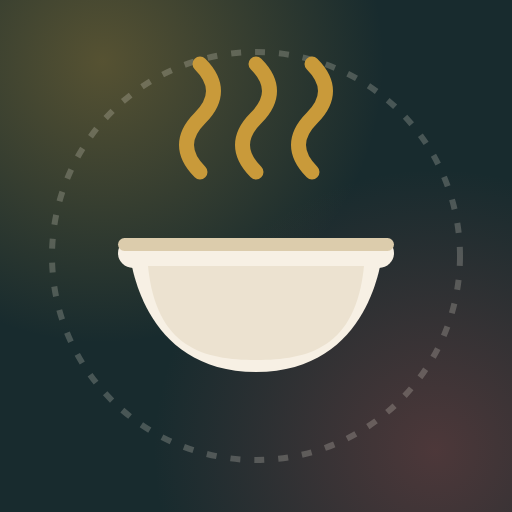
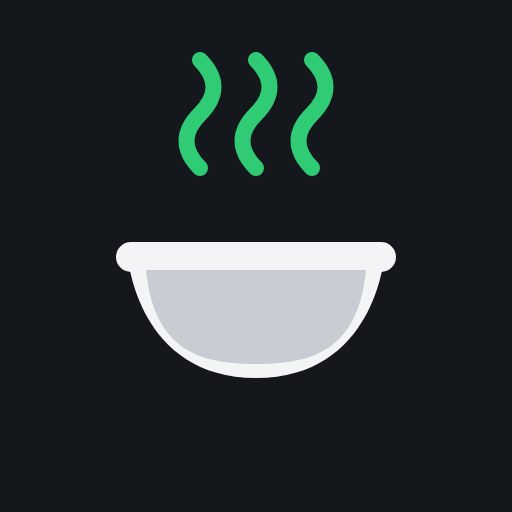
Corriger la DA : reprendre la vraie identité Loverbox (façon Letterboxd)
L'itération précédente s'appuyait sur une ancienne maquette jamais
déployée. La vraie appli Loverbox a un tout autre style : fond quasi
noir, cartes ardoise, accents vert/orange/ambre saturés, typo sans-serif
bold — inspiré de Letterboxd. Palette, composants et icône refaits en
conséquence ; structure HTML/JS inchangée.

Claude-Session: https://claude.ai/code/session_019a1X9DT9bbkZgdqgmPoAiV

diff --git a/index.html b/index.html
@@ -1,7 +1,7 @@
-<!doctype html><html lang="fr"><head><meta charset=utf8><meta name=viewport content="width=device-width,initial-scale=1,viewport-fit=cover"><style>:root{color-scheme:dark;box-sizing:border-box;padding-top:env(safe-area-inset-top,0px);padding-bottom:env(safe-area-inset-bottom,0px)}html{scroll-padding-top:env(safe-area-inset-top,0px)}body{margin:0;padding:0;font:14px -apple-system,BlinkMacSystemFont,sans-serif;background:#182b2e;color:#f7f0e4}img{max-width:100%}[hidden]:not([hidden=until-found i]){display:none!important}</style>
+<!doctype html><html lang="fr"><head><meta charset=utf8><meta name=viewport content="width=device-width,initial-scale=1,viewport-fit=cover"><style>:root{color-scheme:dark;box-sizing:border-box;padding-top:env(safe-area-inset-top,0px);padding-bottom:env(safe-area-inset-bottom,0px)}html{scroll-padding-top:env(safe-area-inset-top,0px)}body{margin:0;padding:0;font:14px -apple-system,BlinkMacSystemFont,sans-serif;background:#14171b;color:#f3f4f6}img{max-width:100%}[hidden]:not([hidden=until-found i]){display:none!important}</style>
 <title>Cookbox</title>
 <meta name="description" content="Batch cooking : rotation de 10 recettes, courses, préparation minutée et repas de la semaine.">
-<meta name="theme-color" content="#182b2e">
+<meta name="theme-color" content="#14171b">
 <link rel="manifest" href="manifest.json">
 <link rel="icon" href="icons/icon-192.png" type="image/png">
 <link rel="apple-touch-icon" href="icons/apple-touch-icon.png">
@@ -11,122 +11,111 @@
 </head><body>
 <link rel="preconnect" href="https://fonts.googleapis.com">
 <link rel="preconnect" href="https://fonts.gstatic.com" crossorigin>
-<link rel="stylesheet" href="https://fonts.googleapis.com/css2?family=Fraunces:ital,wght@1,500;1,600&family=Inter:wght@400;500;600&family=IBM+Plex+Mono:wght@400;500;600&display=swap">
+<link rel="stylesheet" href="https://fonts.googleapis.com/css2?family=Inter:wght@400;500;600;700;800&display=swap">
 <style>
   :root{
-    /* Loverbox DA : nuit / papier / moutarde / brique / sauge */
-    --nuit:#182b2e;
-    --nuit-light:#223a3e;
-    --papier:#f7f0e4;
-    --papier-dark:#ece2d0;
-    --moutarde:#c99a3a;
-    --brique:#9c4b4b;
-    --sauge:#4f6b63;
+    /* Loverbox DA (vraie appli, façon Letterboxd) : fond quasi noir, cartes ardoise, accents saturés */
+    --bg:#14171b;
+    --surface:#1b1f27;
+    --surface-2:#212632;
+    --line:rgba(255,255,255,0.09);
+    --ink:#f3f4f6;
+    --muted:#8a92a3;
+    --muted-2:#666e7d;
 
-    --bg:var(--nuit);
-    --surface:var(--papier);
-    --surface-2:var(--papier-dark);
-    --ink:var(--nuit);
-    --muted:rgba(24,43,46,0.6);
-    --line:rgba(24,43,46,0.14);
+    --green:#30cb75; --green-ink:#0b1f12;
+    --orange:#f0923a; --orange-ink:#2b1503;
+    --amber:#eab54e; --amber-ink:#2b2005;
 
-    --on-dark:var(--papier);
-    --on-dark-muted:rgba(247,240,228,0.55);
-    --on-dark-line:rgba(247,240,228,0.18);
+    --chili:var(--orange); --chili-ink:var(--orange-ink);
+    --turmeric:var(--amber); --turmeric-ink:var(--amber-ink);
+    --jade:var(--green); --jade-ink:var(--green-ink);
 
-    --chili:var(--brique); --chili-ink:var(--papier);
-    --turmeric:var(--moutarde); --turmeric-ink:var(--nuit); --turmeric-text:#8a6220;
-    --jade:var(--sauge); --jade-ink:var(--papier);
-
-    --shadow: 0 12px 30px -14px rgba(0,0,0,0.5);
+    --shadow: 0 8px 20px -10px rgba(0,0,0,0.55);
     scroll-behavior:smooth;
   }
 
   *{ box-sizing:border-box; }
   body{
-    background:var(--bg); color:var(--on-dark); font-family:'Inter','Helvetica Neue',Arial,sans-serif; font-variant-numeric: tabular-nums;
-    background-image:
-      radial-gradient(circle at 18% 8%, rgba(201,154,58,0.08), transparent 42%),
-      radial-gradient(circle at 88% 82%, rgba(156,75,75,0.10), transparent 46%);
-    background-attachment:fixed;
+    background:var(--bg); color:var(--ink); font-family:'Inter',-apple-system,BlinkMacSystemFont,'Segoe UI',Roboto,sans-serif; font-variant-numeric: tabular-nums;
     -webkit-font-smoothing:antialiased;
   }
-  h1,h2,h3,.display{ font-family:'Fraunces',serif; font-style:italic; text-wrap:balance; letter-spacing:-0.005em; }
+  h1,h2,h3,.display{ font-weight:800; text-wrap:balance; letter-spacing:-0.01em; }
 
   .shell{ max-width:640px; margin:0 auto; padding-inline:18px; padding-block: 18px 64px; }
 
   header.top{
     position:sticky; top: env(safe-area-inset-top, 0px); z-index:10;
     background:var(--bg); padding-block: 14px 10px; margin-inline: -18px; padding-inline: 18px;
-    border-bottom:1px dashed var(--on-dark-line);
+    border-bottom:1px solid var(--line);
   }
   .title-row{ display:flex; align-items:baseline; justify-content:space-between; gap:12px; margin-bottom:12px; }
-  .title-row h1{ font-size:1.6rem; font-weight:600; margin:0; color:var(--on-dark); }
-  .title-row .kicker{ display:block; font-family:'IBM Plex Mono',monospace; font-weight:500; font-size:0.66rem; letter-spacing:0.09em; text-transform:uppercase; color:var(--moutarde); margin-bottom:3px; }
-  .reset-btn{ border:1px solid var(--on-dark-line); background:rgba(247,240,228,0.05); color:var(--on-dark-muted); font-size:0.7rem; font-weight:500; padding:6px 10px; border-radius:7px; cursor:pointer; white-space:nowrap; font-family:'IBM Plex Mono',monospace; text-transform:uppercase; letter-spacing:0.04em; }
-  .reset-btn:hover{ color:var(--on-dark); border-color:var(--on-dark-muted); }
-  .reset-confirm{ display:flex; align-items:center; gap:8px; font-size:0.72rem; color:var(--on-dark-muted); font-family:'IBM Plex Mono',monospace; }
-  .reset-confirm button{ border:1px solid var(--on-dark-line); background:rgba(247,240,228,0.05); color:var(--on-dark-muted); font-size:0.68rem; padding:5px 9px; border-radius:6px; cursor:pointer; font-family:'IBM Plex Mono',monospace; text-transform:uppercase; }
-  .reset-confirm button.danger{ background:var(--brique); border-color:var(--brique); color:var(--papier); }
+  .title-row h1{ font-size:1.7rem; font-weight:800; margin:0; color:var(--ink); }
+  .title-row .kicker{ display:block; font-weight:600; font-size:0.72rem; color:var(--green); margin-bottom:3px; }
+  .reset-btn{ border:1px solid var(--line); background:var(--surface); color:var(--muted); font-size:0.72rem; font-weight:600; padding:6px 11px; border-radius:8px; cursor:pointer; white-space:nowrap; font-family:inherit; }
+  .reset-btn:hover{ color:var(--ink); border-color:var(--muted); }
+  .reset-confirm{ display:flex; align-items:center; gap:8px; font-size:0.72rem; color:var(--muted); }
+  .reset-confirm button{ border:1px solid var(--line); background:var(--surface); color:var(--ink); font-size:0.72rem; padding:5px 10px; border-radius:7px; cursor:pointer; font-family:inherit; font-weight:600; }
+  .reset-confirm button.danger{ background:var(--orange); border-color:var(--orange); color:var(--orange-ink); }
 
   .tabs{ display:flex; gap:1px; }
   .tab-btn{
-    flex:1; appearance:none; border:none; background:transparent; color:var(--on-dark-muted);
-    font-family:'IBM Plex Mono',monospace; font-weight:500; font-size:0.66rem; letter-spacing:0.03em;
+    flex:1; appearance:none; border:none; background:transparent; color:var(--muted);
+    font-family:inherit; font-weight:600; font-size:0.72rem;
     padding:9px 1px 10px; border-bottom:3px solid transparent; cursor:pointer; text-align:center;
   }
-  .tab-btn[aria-selected="true"]{ color:var(--on-dark); border-bottom-color:var(--moutarde); }
-  .tab-btn:focus-visible{ outline:2px solid var(--moutarde); outline-offset:2px; }
+  .tab-btn[aria-selected="true"]{ color:var(--ink); border-bottom-color:var(--green); }
+  .tab-btn:focus-visible{ outline:2px solid var(--green); outline-offset:2px; }
 
   .panel{ padding-top:18px; }
 
-  .lineup{ background:var(--surface); border:1px solid var(--line); border-radius:10px; padding:14px 15px 15px; margin-bottom:18px; box-shadow:var(--shadow); }
-  .lineup h3{ font-size:0.85rem; margin:0 0 2px; font-family:'Inter',sans-serif; font-style:normal; font-weight:600; color:var(--ink); }
+  .lineup{ background:var(--surface); border:1px solid var(--line); border-radius:14px; padding:14px 15px 15px; margin-bottom:18px; box-shadow:var(--shadow); }
+  .lineup h3{ font-size:0.9rem; margin:0 0 2px; font-weight:700; color:var(--ink); }
   .lineup .sub{ font-size:0.72rem; color:var(--muted); display:block; margin-bottom:11px; }
   .lineup-pills{ display:flex; flex-wrap:wrap; gap:6px; margin-bottom:12px; }
-  .lineup-pill{ font-family:'IBM Plex Mono',monospace; font-size:0.7rem; font-weight:500; background:var(--surface-2); border:1px dashed rgba(24,43,46,0.25); padding:5px 10px; border-radius:99px; color:var(--ink); }
+  .lineup-pill{ font-size:0.74rem; font-weight:600; background:var(--surface-2); border:1px solid var(--line); padding:5px 10px; border-radius:99px; color:var(--ink); }
   .reroll-btn{
-    border:none; background:var(--moutarde); color:var(--nuit); font-size:0.76rem; font-weight:600;
-    padding:8px 14px; border-radius:8px; cursor:pointer; font-family:'Inter',sans-serif; transition:transform .15s ease;
+    border:none; background:var(--green); color:var(--green-ink); font-size:0.78rem; font-weight:700;
+    padding:9px 15px; border-radius:10px; cursor:pointer; font-family:inherit; transition:transform .15s ease;
   }
   .reroll-btn:hover{ transform:scale(1.03); }
 
   .week-header{ display:flex; align-items:flex-start; justify-content:space-between; gap:10px; margin-bottom:6px; }
-  .week-header h2{ font-size:1.25rem; font-weight:600; margin:0 0 2px; color:var(--on-dark); }
-  .week-header .theme{ font-size:0.78rem; color:var(--moutarde); font-weight:500; font-family:'IBM Plex Mono',monospace; }
+  .week-header h2{ font-size:1.2rem; font-weight:800; margin:0 0 2px; color:var(--ink); }
+  .week-header .theme{ font-size:0.8rem; color:var(--green); font-weight:600; }
   .swap-btn{
-    flex:none; border:1px solid var(--on-dark-line); background:rgba(247,240,228,0.05); color:var(--on-dark-muted); font-size:0.66rem; font-weight:500;
-    padding:5px 10px; border-radius:7px; cursor:pointer; white-space:nowrap; font-family:'IBM Plex Mono',monospace; text-transform:uppercase; margin-top:2px;
+    flex:none; border:1px solid var(--line); background:var(--surface); color:var(--muted); font-size:0.7rem; font-weight:600;
+    padding:5px 11px; border-radius:8px; cursor:pointer; white-space:nowrap; font-family:inherit; margin-top:2px;
   }
-  .swap-btn:hover{ color:var(--on-dark); border-color:var(--on-dark-muted); }
+  .swap-btn:hover{ color:var(--ink); border-color:var(--muted); }
 
   .quicknav{ display:flex; gap:6px; flex-wrap:wrap; margin:12px 0 20px; }
-  .quicknav a{ font-family:'IBM Plex Mono',monospace; font-size:0.68rem; font-weight:500; color:var(--on-dark-muted); background:rgba(247,240,228,0.06); border:1px dashed var(--on-dark-line); padding:4px 10px; border-radius:99px; text-decoration:none; text-transform:uppercase; }
-  .quicknav a:hover{ color:var(--moutarde); border-color:var(--moutarde); }
+  .quicknav a{ font-size:0.72rem; font-weight:600; color:var(--muted); background:var(--surface); border:1px solid var(--line); padding:4px 11px; border-radius:99px; text-decoration:none; }
+  .quicknav a:hover{ color:var(--green); border-color:var(--green); }
   .week-section{ scroll-margin-top: 100px; margin-bottom: 26px; }
   .week-section:last-child{ margin-bottom:0; }
 
   .progress{ display:flex; align-items:center; gap:10px; margin-bottom:12px; }
-  .progress-track{ flex:1; height:6px; border-radius:99px; background:rgba(247,240,228,0.15); overflow:hidden; }
+  .progress-track{ flex:1; height:6px; border-radius:99px; background:var(--surface-2); overflow:hidden; }
   .progress-fill{ height:100%; border-radius:99px; width:0%; transition:width .25s ease; }
   .fill-chili{ background:var(--chili); }
   .fill-turmeric{ background:var(--turmeric); }
-  .progress-label{ font-family:'IBM Plex Mono',monospace; font-size:0.7rem; color:var(--on-dark-muted); font-weight:500; white-space:nowrap; }
+  .progress-label{ font-size:0.72rem; color:var(--muted); font-weight:600; white-space:nowrap; }
 
-  .section-title{ font-family:'IBM Plex Mono',monospace; font-size:0.7rem; font-weight:500; letter-spacing:0.08em; text-transform:uppercase; color:var(--on-dark-muted); margin: 0 0 8px; }
+  .section-title{ font-size:0.74rem; font-weight:700; letter-spacing:0.04em; text-transform:uppercase; color:var(--muted-2); margin: 0 0 8px; }
   .stock-cat{ margin: 20px 0 8px; }
   .stock-cat:first-child{ margin-top:0; }
 
-  .list{ display:flex; flex-direction:column; background:var(--surface); border:1px solid var(--line); border-radius:10px; overflow:hidden; box-shadow:var(--shadow); }
+  .list{ display:flex; flex-direction:column; background:var(--surface); border:1px solid var(--line); border-radius:14px; overflow:hidden; box-shadow:var(--shadow); }
   .item{ display:flex; align-items:center; gap:11px; padding:11px 13px; border-bottom:1px solid var(--line); cursor:pointer; -webkit-tap-highlight-color:transparent; }
   .item:last-child{ border-bottom:none; }
   .item input{ position:absolute; opacity:0; width:1px;height:1px; }
-  .box{ flex:none; width:19px;height:19px; border-radius:5px; border:2px solid rgba(24,43,46,0.25); background:transparent; display:flex; align-items:center; justify-content:center; color:var(--chili-ink); }
+  .box{ flex:none; width:19px;height:19px; border-radius:99px; border:2px solid var(--muted-2); background:transparent; display:flex; align-items:center; justify-content:center; color:var(--chili-ink); }
   .box svg{ width:12px;height:12px; opacity:0; transform:scale(.6); transition:opacity .12s, transform .12s; }
   .item input:checked + .box{ background:var(--chili); border-color:var(--chili); color:var(--chili-ink); }
   .item input:checked + .box svg{ opacity:1; transform:scale(1); }
   .list.prep-check .item input:checked + .box{ background:var(--turmeric); border-color:var(--turmeric); color:var(--turmeric-ink); }
-  .item input:focus-visible + .box{ outline:2px solid var(--moutarde); outline-offset:2px; }
+  .item input:focus-visible + .box{ outline:2px solid var(--green); outline-offset:2px; }
   .item .text{ font-size:0.9rem; line-height:1.35; color:var(--ink); }
   .item input:checked ~ .text{ color:var(--muted); text-decoration:line-through; text-decoration-thickness:1px; }
   .item .note{ display:block; font-size:0.76rem; color:var(--muted); margin-top:1px; }
@@ -134,54 +123,54 @@
   .step{ padding:13px 13px 14px; border-bottom:1px solid var(--line); }
   .step:last-child{ border-bottom:none; }
   .step-head{ display:flex; align-items:flex-start; gap:11px; }
-  .step-num{ flex:none; width:22px;height:22px; border-radius:99px; background:transparent; border:1.5px dashed rgba(24,43,46,0.35); display:flex;align-items:center;justify-content:center; font-family:'IBM Plex Mono',monospace; font-size:0.66rem; font-weight:500; color:var(--muted); margin-top:1px; }
+  .step-num{ flex:none; width:24px;height:24px; border-radius:7px; background:var(--surface-2); border:1px solid var(--line); display:flex;align-items:center;justify-content:center; font-size:0.7rem; font-weight:700; color:var(--muted); margin-top:1px; }
   .step-body{ flex:1; min-width:0; }
-  .step-tag{ display:inline-block; font-family:'IBM Plex Mono',monospace; font-size:0.63rem; font-weight:500; letter-spacing:0.06em; text-transform:uppercase; color:var(--turmeric-text); margin-bottom:3px; }
+  .step-tag{ display:inline-block; font-size:0.66rem; font-weight:700; letter-spacing:0.04em; text-transform:uppercase; color:var(--amber); margin-bottom:3px; }
   .step-text{ font-size:0.9rem; line-height:1.4; color:var(--ink); }
   .step.done .step-text{ color:var(--muted); }
-  .step.done .step-num{ background:var(--turmeric); border:1.5px solid var(--turmeric); color:var(--turmeric-ink); }
+  .step.done .step-num{ background:var(--turmeric); border-color:var(--turmeric); color:var(--turmeric-ink); }
 
   .timer{ display:flex; align-items:center; gap:8px; margin-top:9px; }
-  .timer-display{ font-family:'IBM Plex Mono',monospace; font-weight:600; font-size:0.82rem; min-width:3.6em; color:var(--ink); }
-  .timer.done .timer-display{ color:var(--brique); }
-  .timer-btn{ border:1px solid rgba(24,43,46,0.2); background:var(--surface-2); color:var(--ink); font-size:0.72rem; font-weight:600; padding:5px 11px; border-radius:7px; cursor:pointer; font-family:'IBM Plex Mono',monospace; }
+  .timer-display{ font-weight:700; font-size:0.82rem; min-width:3.6em; color:var(--ink); }
+  .timer.done .timer-display{ color:var(--orange); }
+  .timer-btn{ border:1px solid var(--line); background:var(--surface-2); color:var(--ink); font-size:0.72rem; font-weight:700; padding:5px 12px; border-radius:8px; cursor:pointer; font-family:inherit; }
   .timer-btn.ghost{ background:transparent; color:var(--muted); font-weight:500; padding:5px 8px; }
   .timer.running .timer-btn[data-action="toggle"]{ background:var(--turmeric); border-color:var(--turmeric); color:var(--turmeric-ink); }
 
   .step-check{ flex:none; align-self:flex-start; }
 
   .cards{ display:flex; flex-direction:column; gap:12px; }
-  .card{ background:var(--surface); border:1px solid var(--line); border-left:4px solid var(--sauge); border-radius:10px; padding:14px 15px 15px; box-shadow:var(--shadow); }
-  .card h3{ font-size:1.15rem; font-weight:600; margin:0 0 7px; color:var(--ink); }
+  .card{ background:var(--surface); border:1px solid var(--line); border-radius:14px; padding:14px 15px 15px; box-shadow:var(--shadow); }
+  .card h3{ font-size:1.05rem; font-weight:800; margin:0 0 8px; color:var(--ink); }
   .tags{ display:flex; flex-wrap:wrap; gap:6px; margin-bottom:9px; }
-  .tag{ font-family:'IBM Plex Mono',monospace; font-size:0.66rem; font-weight:500; background:var(--surface-2); border:1px solid rgba(24,43,46,0.15); color:var(--muted); padding:3px 8px; border-radius:99px; text-transform:uppercase; }
+  .tag{ font-size:0.7rem; font-weight:600; background:rgba(48,203,117,0.14); color:var(--green); padding:3px 9px; border-radius:99px; }
   .card p{ font-size:0.85rem; line-height:1.45; margin:0; color:var(--ink); }
-  .card .sauce{ display:block; margin-top:7px; font-size:0.78rem; color:var(--muted); font-style:italic; }
-  .card .sauce b{ color:var(--sauge); font-weight:600; font-style:normal; }
+  .card .sauce{ display:block; margin-top:8px; font-size:0.78rem; color:var(--muted); }
+  .card .sauce b{ color:var(--green); font-weight:700; }
 
   .cons-grid{ display:grid; grid-template-columns:1fr 1fr; gap:12px; margin-bottom:14px; }
   @media (max-width:420px){ .cons-grid{ grid-template-columns:1fr; } }
-  .cons-col{ background:var(--surface); border:1px solid var(--line); border-radius:10px; padding:13px 14px; box-shadow:var(--shadow); }
-  .cons-col h3{ font-size:0.85rem; margin:0 0 3px; font-family:'Inter',sans-serif; font-style:normal; font-weight:600; color:var(--ink); }
+  .cons-col{ background:var(--surface); border:1px solid var(--line); border-radius:14px; padding:13px 14px; box-shadow:var(--shadow); }
+  .cons-col h3{ font-size:0.85rem; margin:0 0 3px; font-weight:700; color:var(--ink); }
   .cons-col .span{ font-size:0.7rem; color:var(--muted); display:block; margin-bottom:9px; }
   .cons-col ul{ margin:0; padding:0; list-style:none; display:flex; flex-direction:column; gap:7px; }
   .cons-col li{ font-size:0.85rem; line-height:1.35; padding-left:13px; position:relative; color:var(--ink); }
   .cons-col li::before{ content:""; position:absolute; left:0; top:0.5em; width:5px;height:5px; border-radius:99px; }
   .cons-col.frigo li::before{ background:var(--turmeric); }
-  .cons-col.congelo li::before{ background:var(--sauge); }
+  .cons-col.congelo li::before{ background:var(--green); }
 
-  .callout{ background:var(--surface-2); border:1px solid rgba(24,43,46,0.1); border-left:3px solid var(--brique); border-radius:8px; padding:11px 13px; font-size:0.83rem; line-height:1.5; margin-top: 10px; color:var(--ink); }
+  .callout{ background:var(--surface-2); border:1px solid var(--line); border-left:3px solid var(--orange); border-radius:10px; padding:11px 13px; font-size:0.83rem; line-height:1.5; margin-top: 10px; color:var(--ink); }
   .callout:first-child{ margin-top:0; }
-  .callout b{ color:var(--brique); }
-  .callout.turm{ border-left-color:var(--moutarde); }
-  .callout.turm b{ color:var(--turmeric-text); }
+  .callout b{ color:var(--orange); }
+  .callout.turm{ border-left-color:var(--amber); }
+  .callout.turm b{ color:var(--amber); }
 
   .lib-list{ display:flex; flex-direction:column; gap:10px; }
-  .lib-item{ background:var(--surface); border:1px solid var(--line); border-radius:10px; padding:12px 14px; display:flex; justify-content:space-between; align-items:flex-start; gap:10px; box-shadow:var(--shadow); }
-  .lib-item.active{ border-color:var(--sauge); }
+  .lib-item{ background:var(--surface); border:1px solid var(--line); border-radius:14px; padding:12px 14px; display:flex; justify-content:space-between; align-items:flex-start; gap:10px; box-shadow:var(--shadow); }
+  .lib-item.active{ border-color:var(--green); }
   .lib-main{ min-width:0; }
-  .lib-name{ font-family:'Fraunces',serif; font-style:italic; font-weight:600; font-size:1.05rem; margin-bottom:5px; color:var(--ink); }
-  .lib-badge{ flex:none; font-family:'IBM Plex Mono',monospace; font-size:0.62rem; font-weight:500; color:var(--jade-ink); background:var(--sauge); padding:4px 9px; border-radius:99px; white-space:nowrap; text-transform:uppercase; }
+  .lib-name{ font-weight:700; font-size:0.95rem; margin-bottom:5px; color:var(--ink); }
+  .lib-badge{ flex:none; font-size:0.66rem; font-weight:700; color:var(--green-ink); background:var(--green); padding:4px 10px; border-radius:99px; white-space:nowrap; }
 
   [hidden]{ display:none !important; }
 </style>

diff --git a/sw.js b/sw.js
@@ -1,4 +1,4 @@
-const CACHE = 'cookbox-v2';
+const CACHE = 'cookbox-v3';
 const APP_SHELL = [
   './',
   './index.html',

diff --git a/README.md b/README.md
@@ -4,7 +4,7 @@ Appli de batch cooking : une bibliothèque de 10 recettes, un tirage aléatoire 
 
 C'est une PWA (Progressive Web App) en HTML/CSS/JS pur, sans build ni dépendances — un simple site statique installable sur téléphone.
 
-Direction artistique reprise de Loverbox : fond `nuit` (#182b2e), cartes `papier` (#f7f0e4), accents `moutarde`/`brique`/`sauge`, titres en Fraunces italique, labels en IBM Plex Mono, texte courant en Inter.
+Direction artistique reprise de Loverbox (façon Letterboxd) : fond quasi noir (#14171b), cartes ardoise (#1b1f27), vert (#30cb75) comme accent principal, orange/ambre pour les catégories courses/prép, texte en Inter sans-serif bold.
 
 ## Installer sur son téléphone
 
